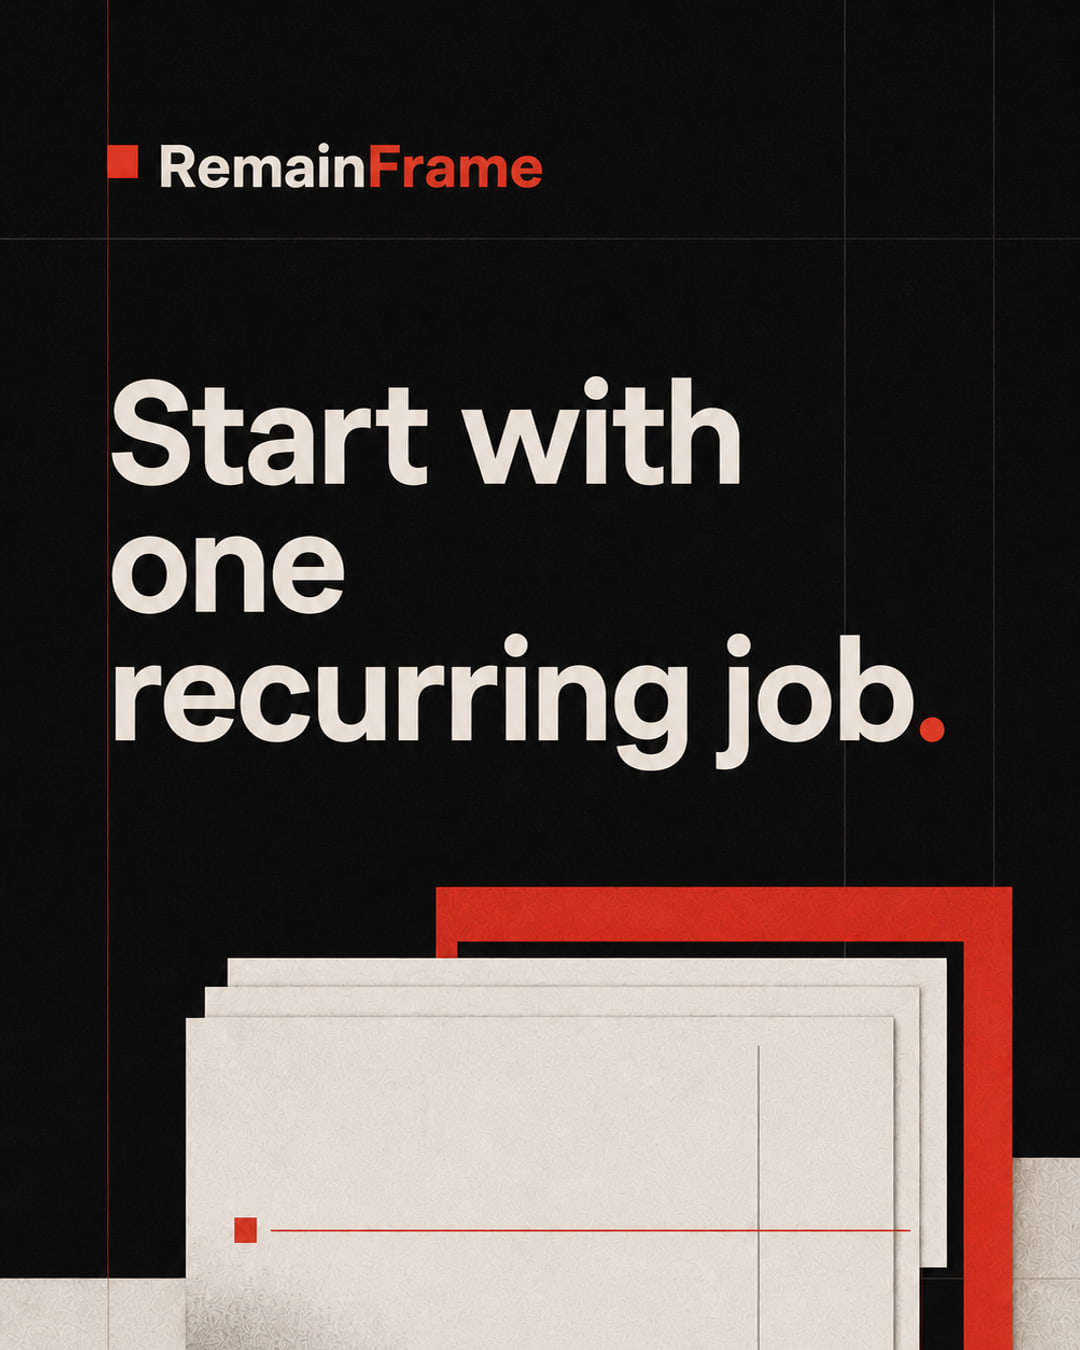
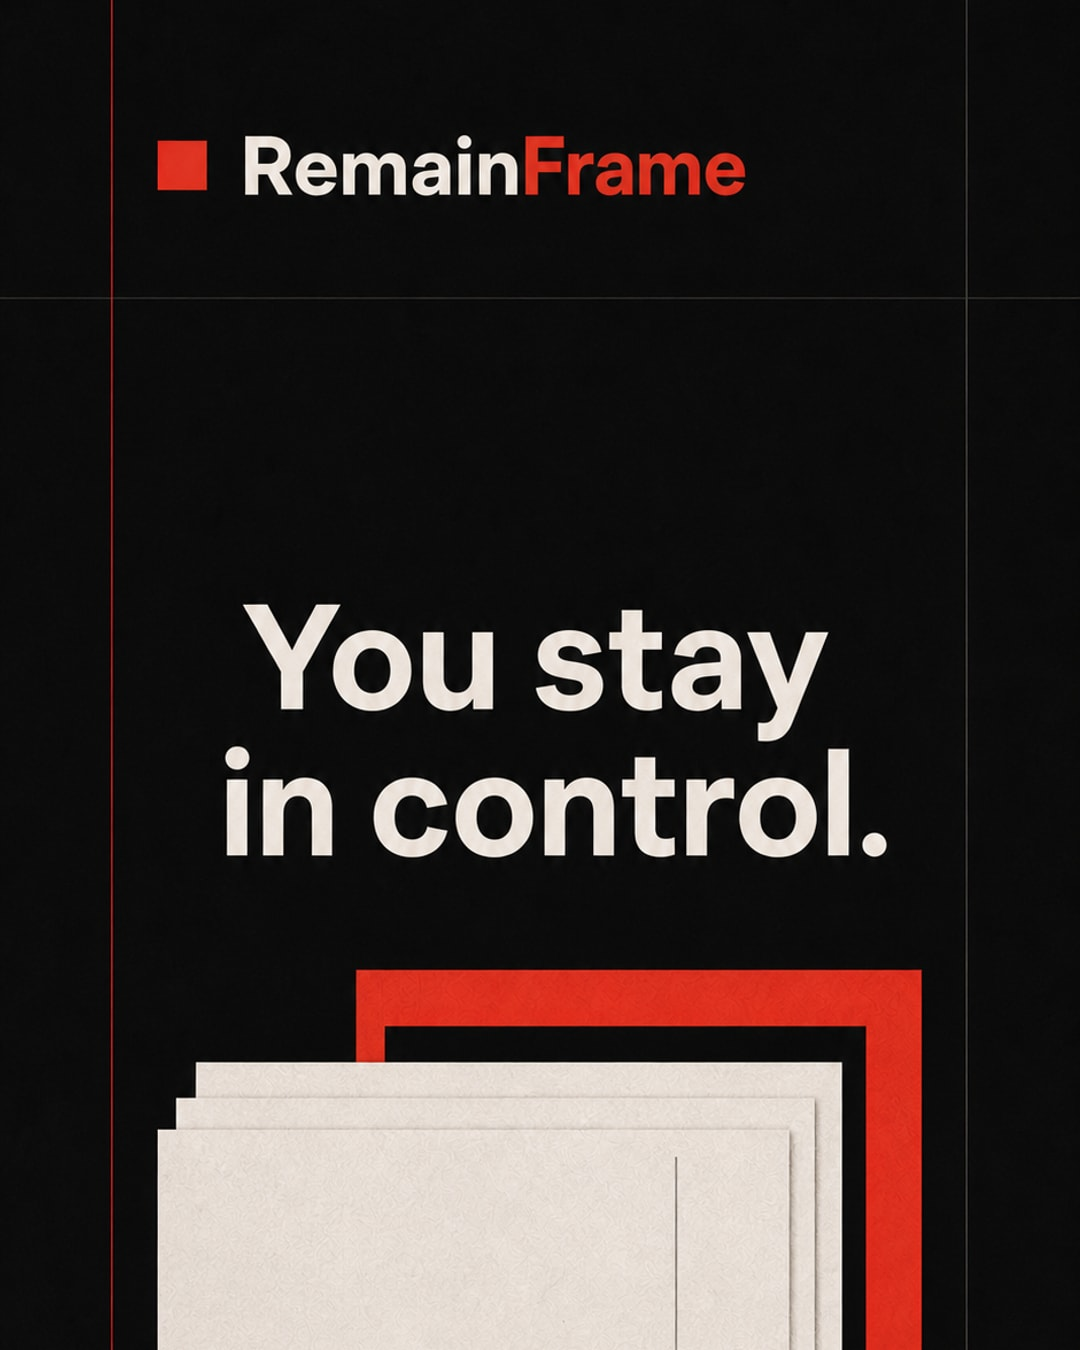
Replace RemainFrame portrait artwork

diff --git a/src/app/printroom-site.tsx b/src/app/printroom-site.tsx
@@ -273,7 +273,7 @@ export default function PrintroomSite() {
             >
               <Image
                 src="/assets/remainframe/remainframe-card-portrait.jpg"
-                alt="RemainFrame, a custom AI secretary service for small businesses"
+                alt="RemainFrame artwork reading: You stay in control."
                 width={1080}
                 height={1350}
                 sizes="(max-width: 760px) calc(100vw - 46px), (max-width: 1180px) min(760px, calc(100vw - 48px)), 47vw"
